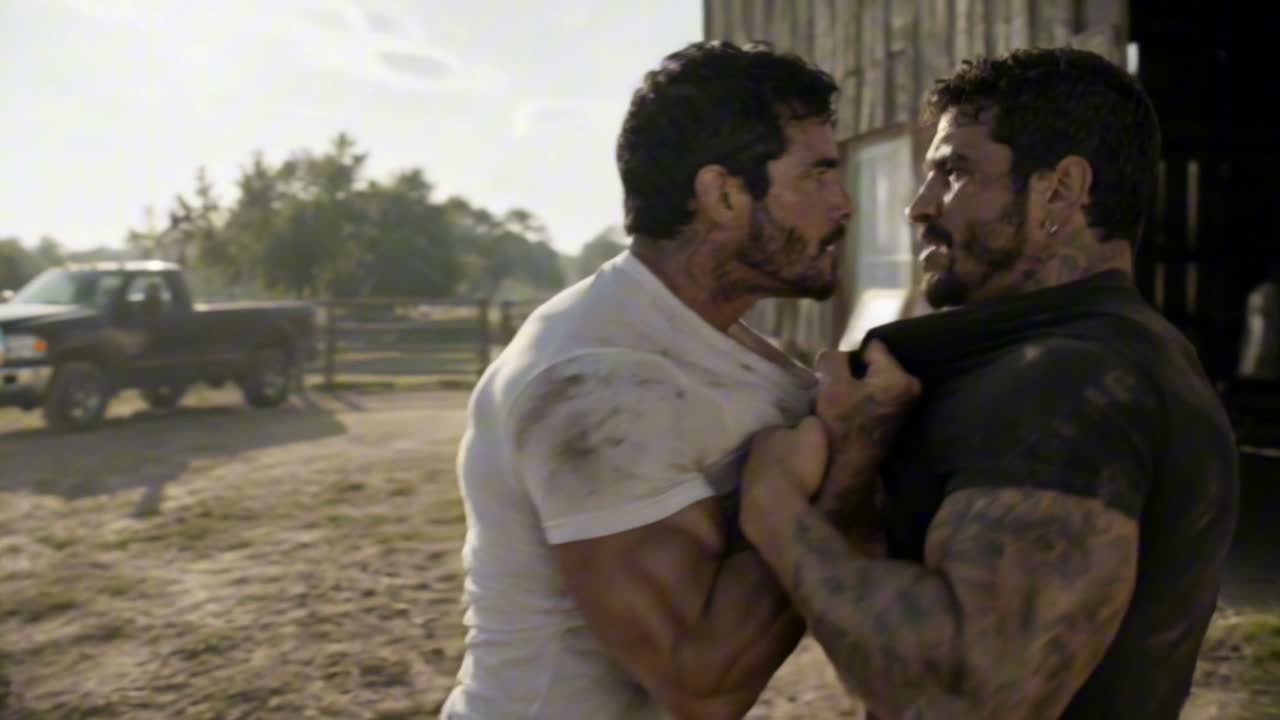
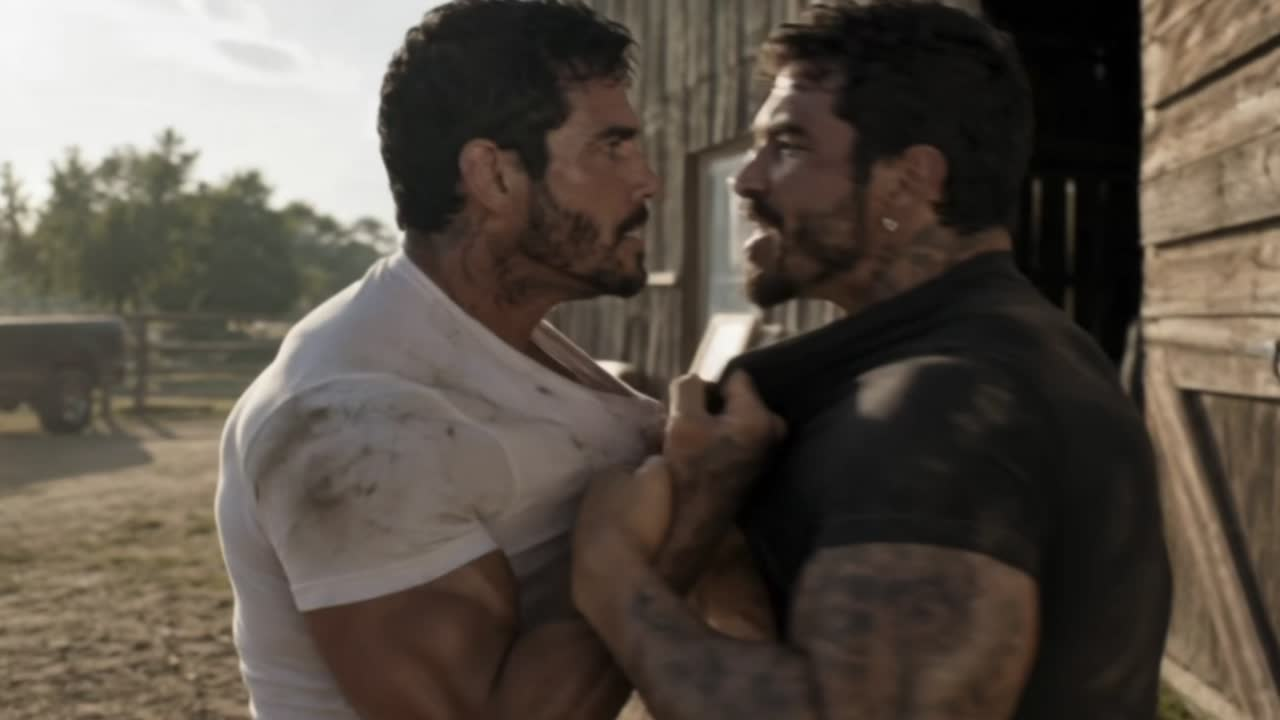
Put the score under the farm fight
Swaps ty-josh-fight to the scored mix. osh-ty-fight-music.mov replaces
the dialogue export outright, per Melissa — the same rule already applied
to luna-ty-shop-kiss: where there are two mixes, the scored one is the
cut. It runs 4 dB hotter (-22.4 against -26.5), which is the music
sitting over the dialogue and is the intent on this material.

THE PICTURE MOVED, so nothing that indexes into this scene survived the
swap unchecked. The new master runs 1.5-2s behind the old and the drift
is not even across the reel: sampled at one-second steps, the beat that
was at 96s is now at 98s, while the men square up within half a second of
where they did. So the poster second and both preview windows were
re-found frame by frame rather than shifted by a constant, which would
have opened the second window on a smear.

  poster    0:24 -> 0:26   (the same shirt-grab, and a better frame of it:
                            both faces read now)
  window A  20.5-38.5 -> 21-39
  window B  93-105    -> 96-108
  runtime   205 -> 206, trimmed at 206.4 where 4.05s of black starts

NO FADE ON IMPORT any more. The old line asked for 1.2s because the
dialogue export stopped dead on a held frame; this master fades itself,
luminance falling 62 to 20 across 204s-206.3s. A second fade would have
darkened an already-darkening shot. The score keeps resolving under the
black past the trim and that tail is lost, which is the price of not
leaving the player on four seconds of nothing.
[…]

diff --git a/lib/content/videos.ts b/lib/content/videos.ts
@@ -1750,9 +1750,21 @@ export const videos: Video[] = [
     // material: josh-tyson-farm/ and ty-josh-tractor/ have sat in stories/
     // since July as raw takes and stills with no edit, and both are listed as
     // "not imported" at the top of scripts/import-cuts.sh. This is where that
-    // footage finally landed. Source is stories/ty-josh-fight/ty-josh-fight.mp4,
-    // 1936x1080, 205.2s, registered in import-cuts.sh with the poster frame
-    // and the fade.
+    // footage finally landed.
+    //
+    // THE SCORED MIX AS OF 2026-09-03, Melissa's instruction. The source is
+    // stories/ty-josh-fight/osh-ty-fight-music.mov (the folder's spelling,
+    // missing the J, deliberately not corrected — see import-cuts.sh), and it
+    // replaces the dialogue export ty-josh-fight.mp4 outright. Same rule as
+    // luna-ty-shop-kiss: where there are two mixes, the scored one is the cut.
+    // It runs 4 dB hotter, which is the score and not a fault — the music
+    // sitting over the dialogue is the intent on this material.
+    //
+    // THE PICTURE RUNS 1.5-2s BEHIND the old export, so every number below
+    // that indexes into the scene was re-found against the new file rather
+    // than shifted by a constant: the poster second, both preview windows, and
+    // the runtime. A constant offset would have been wrong — the drift is not
+    // even across the reel.
     slug: "ty-josh-fight",
     // PLACEHOLDER title and synopsis — hers to replace. "Between Them" for
     // both meanings: where she puts herself the moment she sees it, and where
@@ -1769,11 +1781,12 @@ export const videos: Video[] = [
       "They have been working the farm together all summer, and Tyson has been hearing how it is going with Josh. What he says to him is meant to protect her. Josh does not take it that way. She drives in on the end of it — and she never does find out what it was about.",
     file: "ty-josh-fight.proxy.mp4",
     poster: "/posters/ty-josh-fight.jpg",
-    // 205, and no trim: blackdetect finds no trailing black, so the export
-    // stops dead on her face. The 1.2s fade is applied to the proxy on import
-    // rather than in the timeline — see the `fade` note in optimize-media.sh,
-    // and the line in import-cuts.sh for why this scene gets one at all.
-    durationSeconds: 205,
+    // 206, trimmed at 206.4 where blackdetect puts the start of 4.05s of
+    // trailing black. NO FADE is applied on import any more: the dialogue
+    // export stopped dead on a held frame and needed one, and this master
+    // fades itself — luminance falls 62 to 20 across 204s-206.3s. A second
+    // fade would have darkened an already-darkening shot.
+    durationSeconds: 206,
     addedOn: "2026-09-02",
     // PREMIUM WITH A PUBLIC WINDOW, Melissa on release: "its behind membership
     // 30sec preview for now until i update it bc im gonna show parts on IG."
@@ -1795,15 +1808,26 @@ export const videos: Video[] = [
       // and the wrong way into a feed: a reel has about a second and a half to
       // earn the next one, and a truck does not.
       //
-      // 0:20.5-0:38.5 opens ON the two of them already walking into each
-      // other, so the first frame is the question. 1:33-1:45 is where she is
-      // in the middle of it with a hand on each of them.
+      // 0:21-0:39 opens ON the two of them already walking into each other, so
+      // the first frame is the question. 1:36-1:48 is where she is in the
+      // middle of it — she is shouting between them at 1:37, has a hand on
+      // each of them at 1:38, and the window ends on her face.
+      //
+      // RE-FOUND AGAINST THE SCORED MASTER on 2026-09-03, not shifted. The
+      // windows were 20.5-38.5 and 93-105 against the dialogue export; sampled
+      // at one-second steps in the new file, 93 is motion blur and the beat
+      // that was at 96 is now at 98. Moving them by a constant would have
+      // opened the second window on a smear.
+      //
+      // It still stops well short: she is struck at about 2:03 in this master,
+      // so the window ends fifteen seconds before the punch, and the ground
+      // and her face are nowhere in it.
       //
       // NO hookStart, deliberately: with segments there are two starts and the
       // field would be a lie. See the note on `segments` in the interface.
       segments: [
-        [20.5, 38.5],
-        [93, 105],
+        [21, 39],
+        [96, 108],
       ],
       hookNote:
         "Two windows, cut as the Instagram reel and used as the preview. It opens on the two of them already going at it, and the second piece is her in the middle of it. It ends about a minute before she is struck — the punch, the ground and her face are all outside it, which is the whole point of the bait.",
